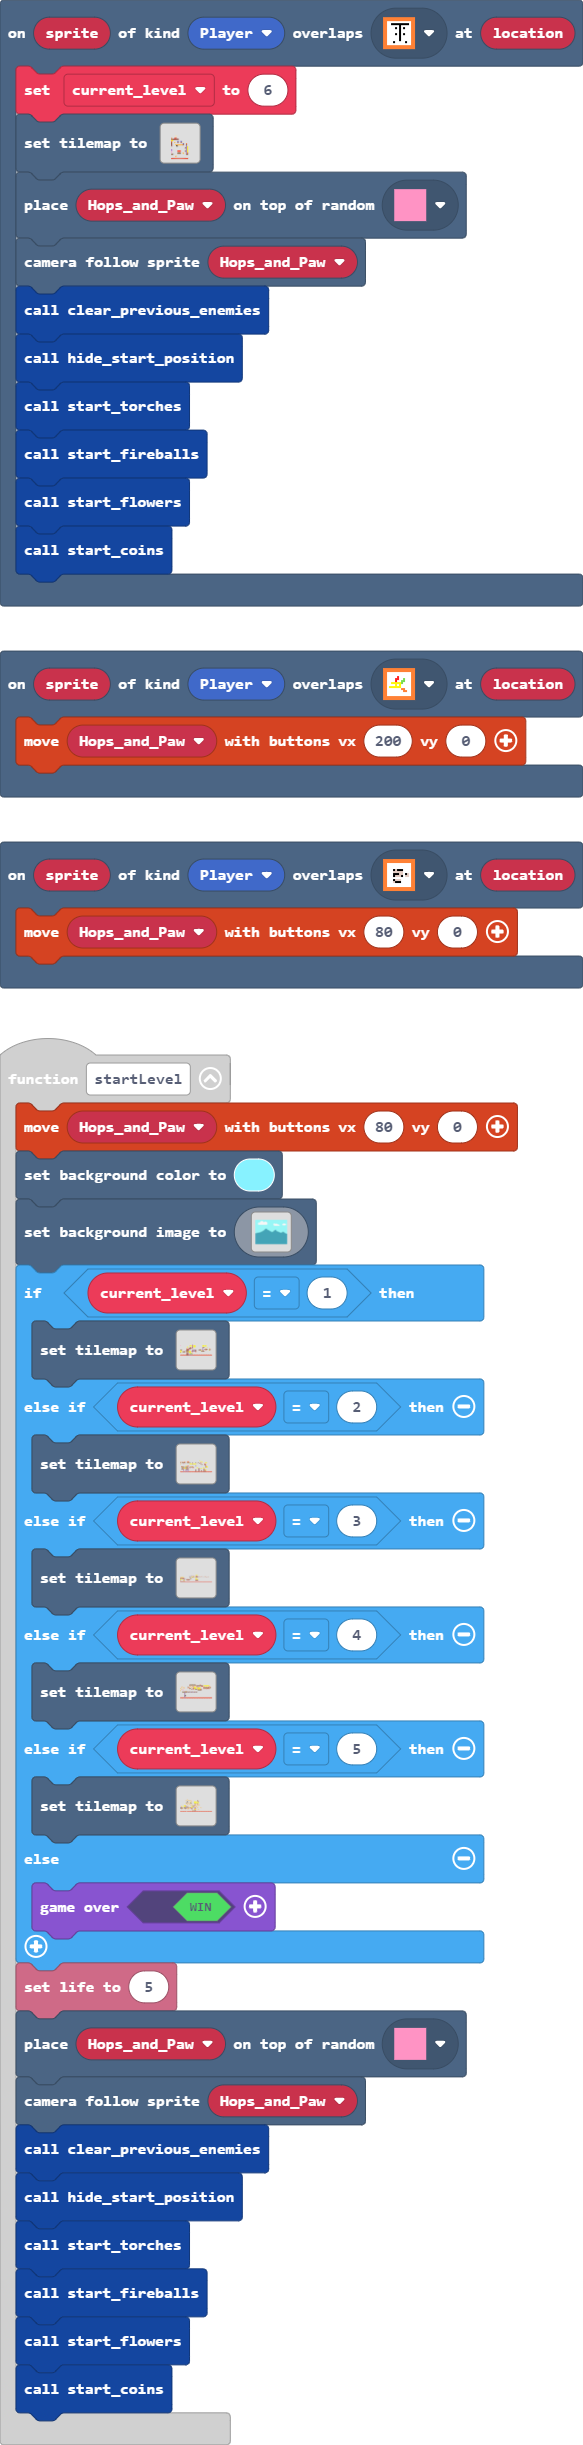
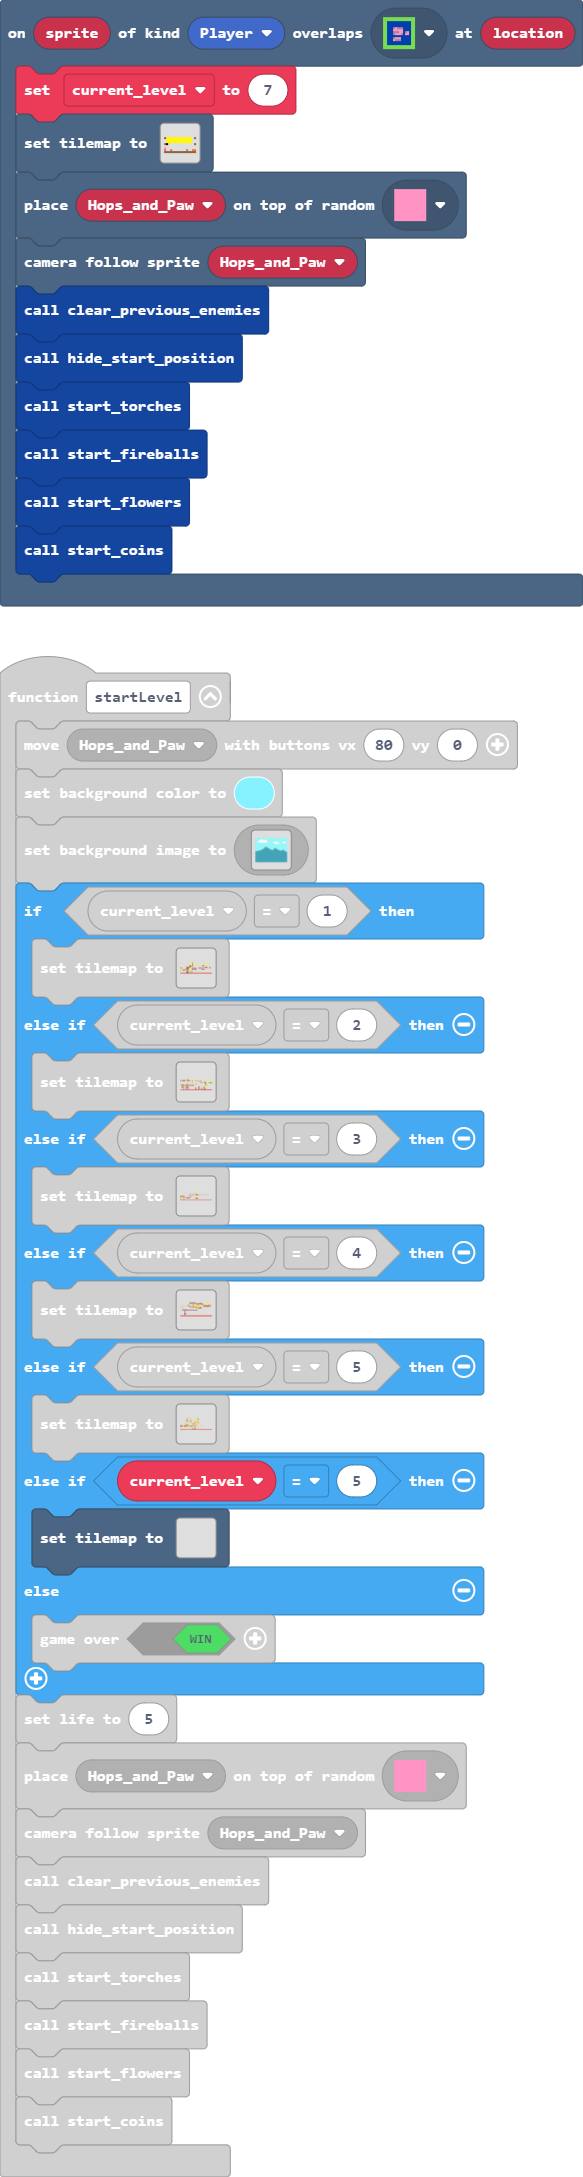
more secret levels!

diff --git a/tilemap.g.ts b/tilemap.g.ts
@@ -79,6 +79,8 @@ namespace myTiles {
     //% fixedInstance jres blockIdentity=images._tile
     export const tile38 = image.ofBuffer(hex``);
     //% fixedInstance jres blockIdentity=images._tile
+    export const tile39 = image.ofBuffer(hex``);
+    //% fixedInstance jres blockIdentity=images._tile
     export const tile36 = image.ofBuffer(hex``);
 
     helpers._registerFactory("tilemap", function(name: string) {
@@ -224,34 +226,6 @@ namespace myTiles {
 .............................................
 .............................................
 `, [myTiles.transparency16,myTiles.tile1,myTiles.tile5,myTiles.tile6,myTiles.tile10,myTiles.tile18,myTiles.tile15,myTiles.tile22,myTiles.tile29,myTiles.tile26,myTiles.tile3,myTiles.tile0,myTiles.tile4,myTiles.tile13,myTiles.tile25,myTiles.tile27,myTiles.tile14,myTiles.tile30,myTiles.tile2,myTiles.tile11,myTiles.tile16], TileScale.Sixteen);
-            case "level_0":
[1 lines of base64/hex data omitted]
-..................................................
-..................................................
-..................................................
-..................................................
-..................................................
-..................................................
-..................................................
-..................................................
-..................................................
-..................................................
-2..22222...222.2...2....2...2.....................
-..............................2...................
-................................2.................
-..................................2...22..........
-.......................................2..........
-..................................................
-........................................2.........
-..22222.22222..2....2...................2.........
-..................................................
-.............................2....................
-..2222...2222........................2............
-........................2.........................
-.................................2................
-.......................................2..........
-..................................................
-`, [myTiles.tile0,myTiles.tile1,myTiles.tile2,myTiles.tile3,myTiles.tile4,myTiles.tile5,myTiles.tile6,myTiles.tile9,myTiles.tile10,myTiles.tile11,myTiles.tile8,myTiles.tile12,myTiles.tile13,myTiles.tile16,myTiles.tile18,myTiles.tile21,myTiles.tile15,myTiles.tile14,myTiles.tile24,myTiles.tile25,myTiles.tile26], TileScale.Sixteen);
             case "level7":
             case "level7":return tiles.createTilemap(hex`1000100000000000000000000000000000000000000000000000000000000000000000000000000000000000000000000000000000000000000000000000000000000000000000000000000000000000000000000000000000000000000000000000000000000000000000000000000000000000000000000000000000000000000000000000000000000000000000000000000000000000000000000000000000000000000000000000000000000000000000000000000000000000000000000000000000000000000000000000000000000000000000000000000000000000000000000000000000000000000000000000000000000000000000000000000000000000`, img`
 . . . . . . . . . . . . . . . . 
@@ -524,8 +498,46 @@ namespace myTiles {
 .........................
 .........................
 `, [myTiles.transparency16,sprites.builtin.brick,myTiles.tile6,myTiles.tile31,myTiles.tile32,myTiles.tile33,myTiles.tile34,myTiles.tile35,sprites.dungeon.buttonTealDepressed,myTiles.tile37,myTiles.tile38,myTiles.tile36], TileScale.Sixteen);
+            case "level20":
+            case "level20":return tiles.createTilemap(hex`1000100000000000000000000000000000000000000000000000000000000000000000000000000000000000000000000000000000000000000000000000000000000000000000000000000000000000000000000000000000000000000000000000000000000000000000000000000000000000000000000000000000000000000000000000000000000000000000000000000000000000000000000000000000000000000000000000000000000000000000000000000000000000000000000000000000000000000000000000000000000000000000000000000000000000000000000000000000000000000000000000000000000000000000000000000000000000`, img`
+. . . . . . . . . . . . . . . . 
+. . . . . . . . . . . . . . . . 
+. . . . . . . . . . . . . . . . 
+. . . . . . . . . . . . . . . . 
+. . . . . . . . . . . . . . . . 
+. . . . . . . . . . . . . . . . 
+. . . . . . . . . . . . . . . . 
+. . . . . . . . . . . . . . . . 
+. . . . . . . . . . . . . . . . 
+. . . . . . . . . . . . . . . . 
+. . . . . . . . . . . . . . . . 
+. . . . . . . . . . . . . . . . 
+. . . . . . . . . . . . . . . . 
+. . . . . . . . . . . . . . . . 
+. . . . . . . . . . . . . . . . 
+. . . . . . . . . . . . . . . . 
+`, [myTiles.transparency16,myTiles.tile38,myTiles.tile36,myTiles.tile39], TileScale.Sixteen);
+            case "level21":
+            case "level21":return tiles.createTilemap(hex`1000100000000000000000000000000000000000000000000000000000000000000000000000000000000000000000000000000000000000000000000000000000000000000000000000000000000000000000000000000000000000000000000000000000000000000000000000000000000000000000000000000000000000000000000000000000000000000000000000000000000000000000000000000000000000000000000000000000000000000000000000000000000000000000000000000000000000000000000000000000000000000000000000000000000000000000000000000000000000000000000000000000000000000000000000000000000000`, img`
+. . . . . . . . . . . . . . . . 
+. . . . . . . . . . . . . . . . 
+. . . . . . . . . . . . . . . . 
+. . . . . . . . . . . . . . . . 
+. . . . . . . . . . . . . . . . 
+. . . . . . . . . . . . . . . . 
+. . . . . . . . . . . . . . . . 
+. . . . . . . . . . . . . . . . 
+. . . . . . . . . . . . . . . . 
+. . . . . . . . . . . . . . . . 
+. . . . . . . . . . . . . . . . 
+. . . . . . . . . . . . . . . . 
+. . . . . . . . . . . . . . . . 
+. . . . . . . . . . . . . . . . 
+. . . . . . . . . . . . . . . . 
+. . . . . . . . . . . . . . . . 
+`, [myTiles.transparency16], TileScale.Sixteen);
             case "level14":
[2 lines of base64/hex data omitted]
 ................
 ................
 ................
@@ -540,7 +552,7 @@ namespace myTiles {
 2222222.........
 ................
 ................
-2.....2..2......
+2..2..2..2......
 2...............
 2..........2..2.
 2...............
@@ -557,6 +569,53 @@ namespace myTiles {
 ................
 ................
 `, [myTiles.transparency16,myTiles.tile1,myTiles.tile2,myTiles.tile3,myTiles.tile4,myTiles.tile7,myTiles.tile9,myTiles.tile11,myTiles.tile8,myTiles.tile12,myTiles.tile13,myTiles.tile15,myTiles.tile22,myTiles.tile23,myTiles.tile25,myTiles.tile29,myTiles.tile26,myTiles.tile30,myTiles.tile6], TileScale.Sixteen);
+            case "level22":
+            case "level22":return tiles.createTilemap(hex`1000100000000000000000000000000000000000000000000000000000000000000000000000000000000000000000000000000000000000000000000000000000000000000000000000000000000000000000000103030303030303030303030303000100030303030303030303030303030000000303030303030303030303030300000105000000000000000000000000000100000000000000000000000000000000060000000000000000000000000000000400000400000000000000040000040201010101010101010101010101010101000000000000000000000000000000000000000000000000000000000000000000000000000000000000000000000000`, img`
+. . . . . . . . . . . . . . . . 
+. . . . . . . . . . . . . . . . 
+. . . . . . . . . . . . . . . . 
+. . . . . . . . . . . . . . . . 
+. . . . . 2 . . . . 2 . . . . . 
+2 . . . . . . . . . . . . . . 2 
+. . . . . . . . . . . . . . . . 
+. . . . . . . . . . . . . . . . 
+2 . . . . . . . . . . . . . . 2 
+. . . . . . . . . . . . . . . . 
+. . . . . . . . . . . . . 2 . . 
+. . . . . . . . . . . . . . . . 
+2 2 2 2 2 2 2 2 2 2 2 2 2 2 2 2 
+. . . . . . . . . . . . . . . . 
+. . . . . . . . . . . . . . . . 
+. . . . . . . . . . . . . . . . 
+`, [myTiles.transparency16,myTiles.tile1,myTiles.tile2,myTiles.tile4,myTiles.tile13,myTiles.tile30,myTiles.tile6], TileScale.Sixteen);
+            case "level_0":
[1 lines of base64/hex data omitted]
+..................................................
+..................................................
+..................................................
+..................................................
+..................................................
+..................................................
+..................................................
+..................................................
+..................................................
+..................................................
+2..22222...222.2...2....2...2.....................
+..............................2...................
+................................2.................
+..................................2...22.....2222.
+.......................................2..........
+..................................................
+........................................2.........
+..22222.22222..2....2...................2.........
+..................................................
+.............................2....................
+..2222...2222........................2............
+........................2.........................
+.................................2................
+.......................................2..........
+..................................................
+`, [myTiles.tile0,myTiles.tile1,myTiles.tile2,myTiles.tile3,myTiles.tile4,myTiles.tile5,myTiles.tile6,myTiles.tile9,myTiles.tile10,myTiles.tile11,myTiles.tile8,myTiles.tile12,myTiles.tile13,myTiles.tile16,myTiles.tile18,myTiles.tile21,myTiles.tile15,myTiles.tile14,myTiles.tile24,myTiles.tile25,myTiles.tile26,myTiles.tile39], TileScale.Sixteen);
         }
         return null;
     })
@@ -629,6 +688,8 @@ namespace myTiles {
             case "tile37":return tile37;
             case "myTile25":
             case "tile38":return tile38;
+            case "myTile26":
+            case "tile39":return tile39;
             case "myTile23":
             case "tile36":return tile36;
         }

diff --git a/main.ts b/main.ts
@@ -942,6 +942,8 @@ function startLevel () {
         tiles.setTilemap(tilemap`level5`)
     } else if (current_level == 5) {
         tiles.setTilemap(tilemap`level6`)
+    } else if (current_level == 5) {
+        tiles.setTilemap(tilemap`level20`)
     } else {
         game.over(true)
     }
@@ -969,6 +971,18 @@ scene.onOverlapTile(SpriteKind.Player, assets.tile`myTile23`, function (sprite, 
 })
 scene.onOverlapTile(SpriteKind.Player, assets.tile`myTile14`, function (sprite, location) {
     game.over(false, effects.melt)
+})
+scene.onOverlapTile(SpriteKind.Player, assets.tile`myTile26`, function (sprite, location) {
+    current_level = 7
+    tiles.setTilemap(tilemap`level22`)
+    tiles.placeOnRandomTile(Hops_and_Paw, assets.tile`tile6`)
+    scene.cameraFollowSprite(Hops_and_Paw)
+    clear_previous_enemies()
+    hide_start_position()
+    start_torches()
+    start_fireballs()
+    start_flowers()
+    start_coins()
 })
 sprites.onOverlap(SpriteKind.Player, SpriteKind.Enemy, function (sprite, otherSprite) {
     otherSprite.destroy()
